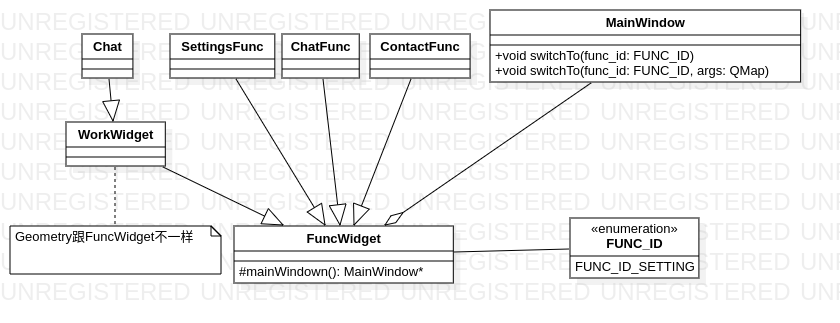
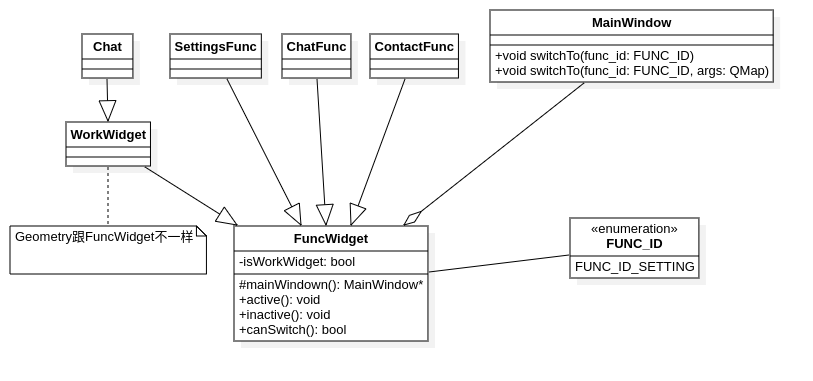
frame

diff --git a/src/frame/MainWindow.cpp b/src/frame/MainWindow.cpp
@@ -8,8 +8,9 @@
 
 MainWindow::MainWindow(QWidget *parent)
     : QMainWindow(parent),
+      leftBar_(new LeftBar(this)),
       activeFuncWidget_(NULL),
-      leftBar_(new LeftBar(this))
+      activeWorkWidget_(NULL)
 {
     initUI();
     initConnect();
@@ -39,53 +40,20 @@ bool MainWindow::switchTo(int func_id)
 
 bool MainWindow::switchTo(int func_id, const QMap<QString, QVariant> &args)
 {
-    if(!activeFuncWidget_)
-    {
-        activeFuncWidget_ = createFuncWidget(func_id);
-        if(!activeFuncWidget_)
-        {
-            return false;
-        }
-
-        activeFuncWidget_->hide();
-        activeFuncWidget_->active(args);
-        return true;
-    }
-
-    if(activeFuncWidget_->funcId() == func_id)
-        return true;
-
-    if(!activeFuncWidget_->canSwitch())
-        return false;
-
-    FuncWidget* func_widget = NULL;
-    if(funcWidgets_.contains(func_id))
-    {
-        func_widget = funcWidgets_[func_id];
-    }
-
+    FuncWidget* func_widget = createFuncWidget(func_id);
     if(!func_widget)
     {
-        func_widget = createFuncWidget(func_id);
-        if(!func_widget)
-            return false;
+        return false;
     }
 
-    if(activeFuncWidget_->keepAlive())
+    /// WorkWidget
+    if(func_widget->isWorkWidget())
     {
-        activeFuncWidget_->inactive();
-    }
-    else
-    {
-        activeFuncWidget_->deleteLater();
+        return switchTo(&activeWorkWidget_, &func_widget, args);
     }
 
-    activeFuncWidget_ = func_widget;
-    activeFuncWidget_->active(args);
-
-    LOG_INFO(QString("Switch to: %1").arg(activeFuncWidget_->funcId()));
-
-    return true;
+    /// FuncWidget
+    return switchTo(&activeFuncWidget_, &func_widget, args);
 }
 
 void MainWindow::initUI()
@@ -104,9 +72,52 @@ void MainWindow::initConnect()
 
 FuncWidget *MainWindow::createFuncWidget(int func_id)
 {
+    if(funcWidgets_.contains(func_id) &&
+            funcWidgets_[func_id])
+    {
+        return funcWidgets_[func_id];
+    }
+
     FuncWidgetCreator* creator = funcWidgetCreators_.value(func_id, NULL);
     if(!creator)
+    {
         return NULL;
+    }
 
-    return creator->create(this);
+    FuncWidget* new_func_widget = creator->create(this);
+    if(new_func_widget)
+    {
+        funcWidgets_[func_id] = new_func_widget;
+    }
+    return new_func_widget;
+}
+
+bool MainWindow::switchTo(FuncWidget **from, FuncWidget **to, const QMap<QString, QVariant> &args)
+{
+    if(!(*from))
+    {
+        *from = *to;
+        (*from)->active(args);
+        return true;
+    }
+
+    if((*from)->funcId() == (*to)->funcId())
+        return true;
+
+    if(!(*from)->canSwitch())
+        return false;
+
+    if((*from)->keepAlive())
+    {
+        (*from)->inactive();
+    }
+    else
+    {
+        funcWidgets_[(*from)->funcId()] = NULL;
+        (*from)->deleteLater();
+    }
+
+    *from = *to;
+    (*from)->active(args);
+    return true;
 }

diff --git a/src/frame/MainWindow.h b/src/frame/MainWindow.h
@@ -23,17 +23,19 @@ public:
     bool switchTo(int func_id);
     bool switchTo(int func_id, const QMap<QString, QVariant> &args);
 
-	
 private:
     void initUI();
     void initConnect();
     FuncWidget* createFuncWidget(int);
+    bool switchTo(FuncWidget** from, FuncWidget** to, const QMap<QString, QVariant>& args);
 
-    FuncWidget* activeFuncWidget_;
+    LeftBar* leftBar_;
+
     QMap<int, FuncWidgetCreator*> funcWidgetCreators_;
     QMap<int, FuncWidget*> funcWidgets_;
 
-    LeftBar* leftBar_;
+    FuncWidget* activeFuncWidget_;
+    FuncWidget* activeWorkWidget_;
 };
 
 #endif /* G5C_FRAME_MAINWINDOW_H */

diff --git a/src/frame/FuncWidget.h b/src/frame/FuncWidget.h
@@ -23,6 +23,8 @@ public:
     bool keepAlive() const { return keepAlive_; }
     void setKeepAlive(bool alive) { keepAlive_ = alive; }
 
+    bool isWorkWidget() const { return isWorkWidget_; }
+
 protected:
     FuncWidget(MainWindow* win, int func_id);
     virtual ~FuncWidget();
@@ -30,9 +32,12 @@ protected:
     MainWindow* mainWindow() const { return window_; }
 
 private:
+    friend class WorkWidget;
+
     MainWindow* window_;
     int funcId_;
     bool keepAlive_;
+    bool isWorkWidget_;
 };
 
 class FuncWidgetCreator

diff --git a/src/app/settings/SettingsFunc.cpp b/src/app/settings/SettingsFunc.cpp
@@ -1,6 +1,7 @@
 #include "src/app/settings/SettingsFunc.h"
 #include "src/app/FuncId.h"
 #include "ui_SettingsFunc.h"
+#include "src/public/Logger.h"
 
 FuncWidget *SettingsFuncCreator::create(MainWindow *window)
 {
@@ -16,6 +17,10 @@ SettingsFunc::SettingsFunc(MainWindow *window)
     initData();
     initUI();
     initConnect();
+}
+
+SettingsFunc::~SettingsFunc()
+{
 }
 
 void SettingsFunc::slotSwitchButtonClicked()

diff --git a/src/main.cpp b/src/main.cpp
@@ -13,6 +13,7 @@ int main(int argc, char* argv[])
     win.registerFuncWidget(FUNC_ID_DEFAULT, new DefaultFuncCreator);
     win.registerFuncWidget(FUNC_ID_TEST, new TestFuncCreator);
     win.registerFuncWidget(FUNC_ID_SETTINGS, new SettingsFuncCreator);
+    win.switchTo(FUNC_ID_DEFAULT);
     win.switchTo(FUNC_ID_TEST);
     win.show();
 

diff --git a/src/frame/FuncWidget.cpp b/src/frame/FuncWidget.cpp
@@ -5,7 +5,8 @@ FuncWidget::FuncWidget(MainWindow *win, int func_id)
     : QWidget(win),
       window_(win),
       funcId_(func_id),
-      keepAlive_(true)
+      keepAlive_(true),
+      isWorkWidget_(false)
 {
     setGeometry(FUNCWIDGET_START_X, FUNCWIDGET_START_Y, FUNCWIDGET_DEFAULT_WIDTH, FUNCWIDGET_DEFAULT_HEIGHT);
 }

diff --git a/src/frame/WorkWidget.cpp b/src/frame/WorkWidget.cpp
@@ -6,6 +6,8 @@ WorkWidget::WorkWidget(MainWindow *win, int func_id)
     : FuncWidget(win, func_id)
 {
 
+    isWorkWidget_ = true;
+
     QPalette palette(this->palette());
     palette.setColor(QPalette::Background, QColor(231, 230, 230));
 

diff --git a/src/app/settings/SettingsFunc.h b/src/app/settings/SettingsFunc.h
@@ -15,6 +15,7 @@ class SettingsFunc : public FuncWidget
     Q_OBJECT
 public:
     explicit SettingsFunc(MainWindow* window);
+    virtual ~SettingsFunc();
 
 private slots:
     void slotSwitchButtonClicked();

diff --git a/src/widget/ChatList.cpp b/src/widget/ChatList.cpp
@@ -1,8 +1,9 @@
-#include "ChatList.h"
+#include "src/widget/ChatList.h"
 
 ChatList::ChatList(QWidget *parent) :
     QListView(parent)
 {
+    setVerticalScrollMode(ScrollPerPixel);
 }
 
 ChatList::~ChatList()

diff --git a/src/widget/ChatListItemDelegate.cpp b/src/widget/ChatListItemDelegate.cpp
@@ -1,4 +1,4 @@
-#include "ChatListItemDelegate.h"
+#include "src/widget/ChatListItemDelegate.h"
 
 #include <QDebug>
 #include <QPainter>
